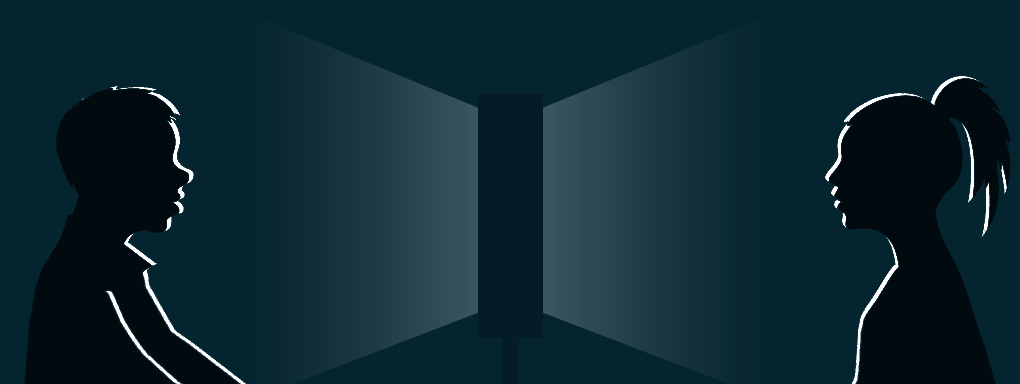
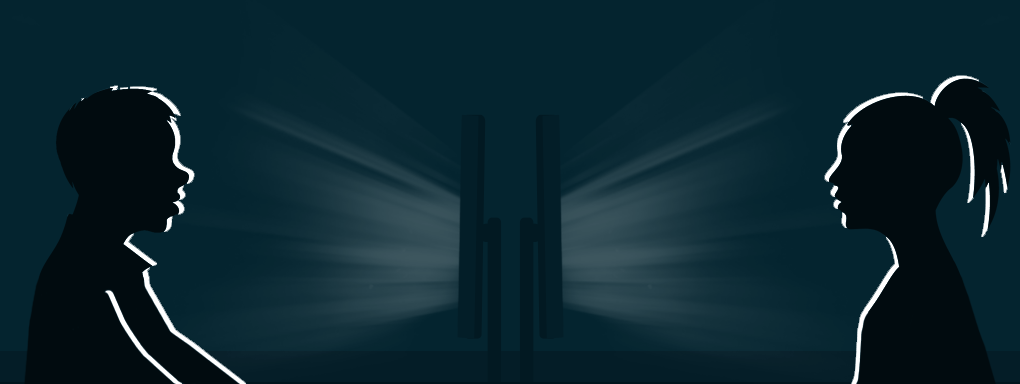
Update the background image

diff --git a/css/style.css b/css/style.css
@@ -106,6 +106,9 @@ h1 .beta {
   right: 5px;
   color: rgba(255, 255, 255, 0.3);
 }
+#container {
+  background-image: url(../img/kids-bg.png);
+}
 header {
   text-align: center;
   width: 1020px;

diff --git a/css/style.less b/css/style.less
@@ -66,6 +66,10 @@ h1 {
     }
 }
 
+#container {
+    background-image: url(../img/kids-bg.png);
+}
+
 header {
     text-align: center;
     width: 1020px;
